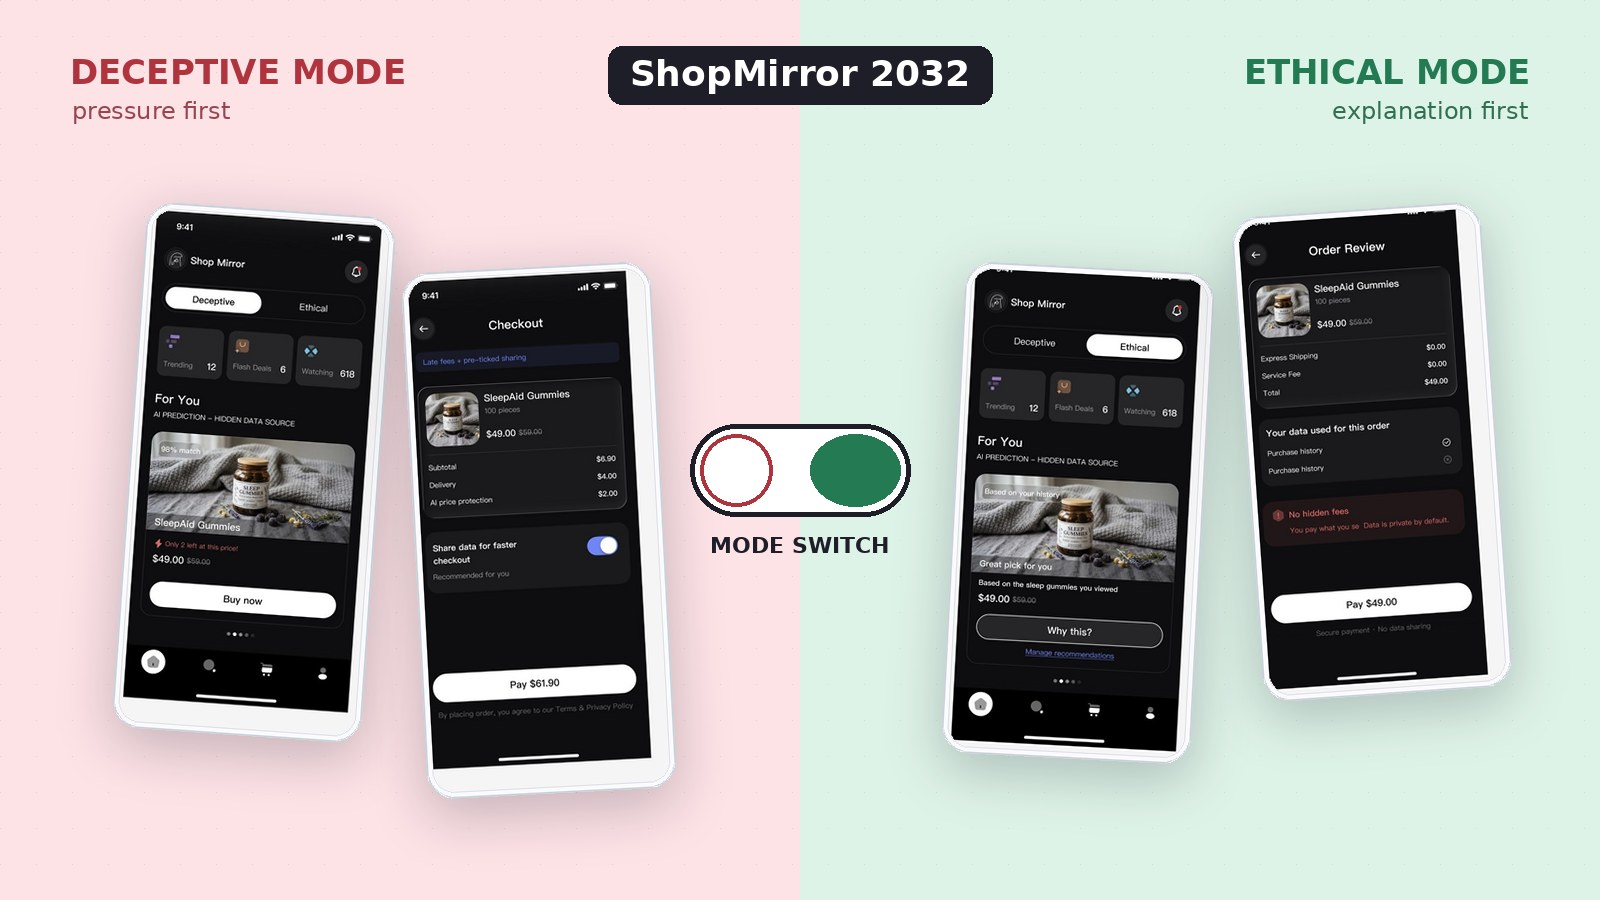
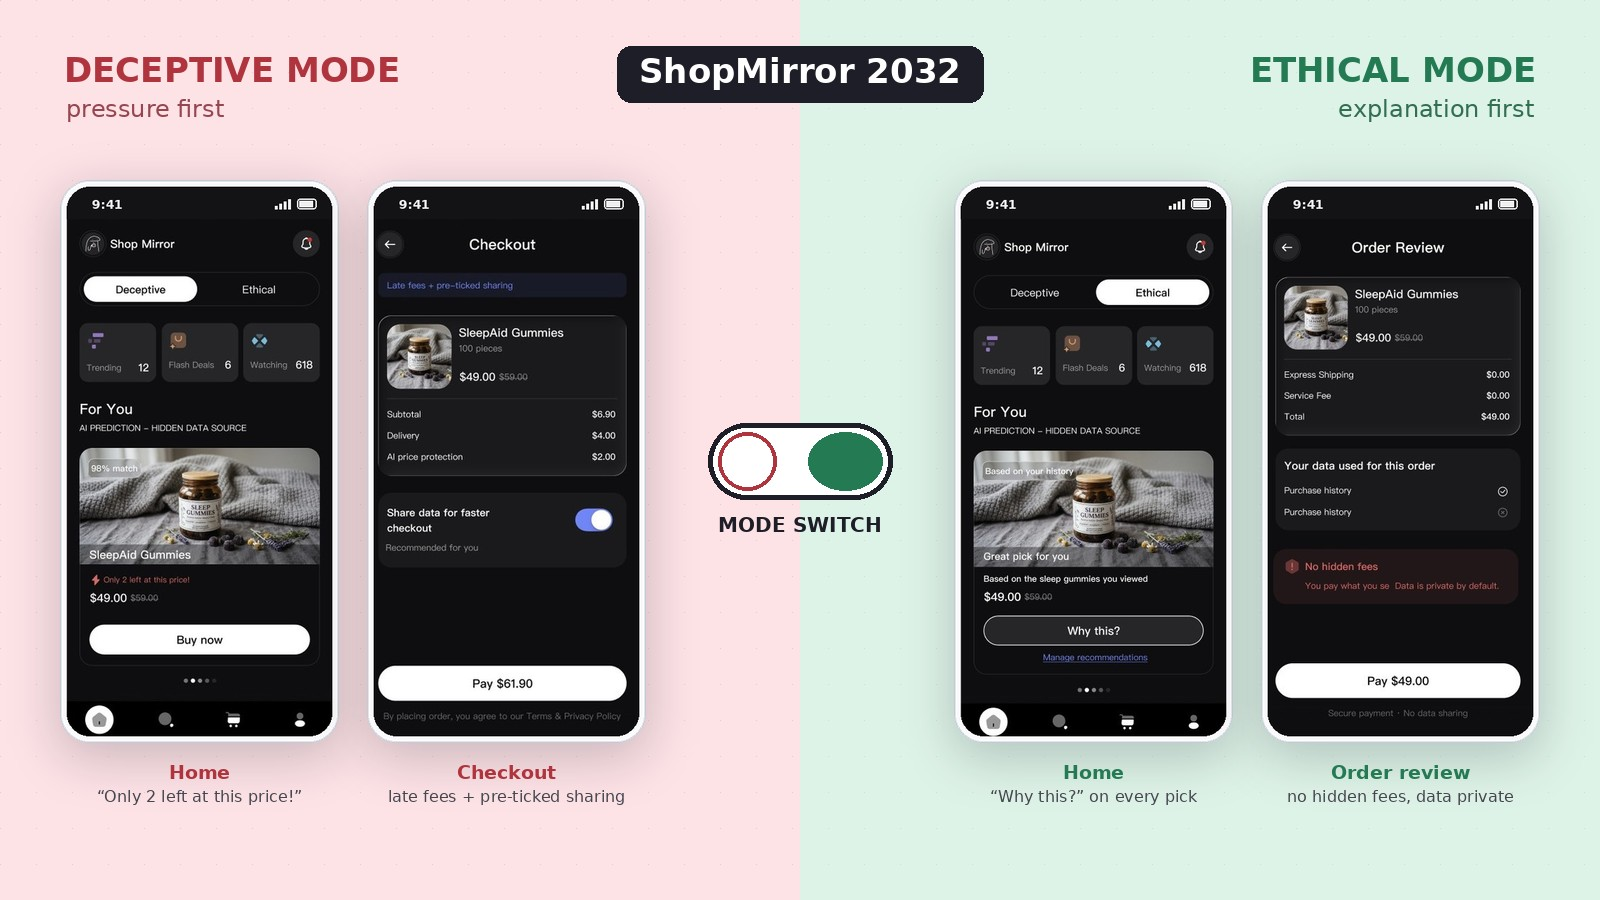
Aligned ShopMirror mockups, focused work thumbnails

diff --git a/js/content.js b/js/content.js
@@ -54,7 +54,7 @@ const WORKS = [
   {
     id: 'my-room', title: 'What We Carry', unit: 'KKB385 · Individual project', year: '2026',
     skills: ['Creative Coding & Interactive Prototyping', 'Three.js / Web 3D', 'Concept Development & Framing', 'Visual Storytelling'], accent: '#e9c46a',
-    role: 'Solo · my own new game', kind: 'Personal game · web & 3D', cover: 'myRoom', image: 'assets/work/my-room-cover.png', pixel: true,
+    role: 'Solo · my own new game', kind: 'Personal game · web & 3D', cover: 'myRoom', image: 'assets/work/my-room-cover.png', thumb: 'assets/work/thumbs/my-room.jpg', pixel: true,
     play: [{ label: 'My Room', href: 'room/', ratio: '16/9' }],
     summary: 'A new personal game I created, about my own room, connected to my A1 and A3 work.',
     body: [
@@ -68,7 +68,7 @@ const WORKS = [
   {
     id: 'echo-corridor', title: 'Echo Corridor', unit: 'DXB211 · Creative Coding', year: '2026',
     skills: ['p5.js / JavaScript', 'Game-state / Data Logic', 'Interaction Prototyping', 'User Research & Usability Testing'], accent: '#8cc3dd',
-    role: 'Solo', kind: 'Arcade game', cover: 'echoCorridor', image: 'assets/work/echo-corridor/p01.jpg',
+    role: 'Solo', kind: 'Arcade game', cover: 'echoCorridor', image: 'assets/work/echo-corridor/p01.jpg', thumb: 'assets/work/thumbs/echo-corridor.jpg',
     gallery: ['assets/work/echo-corridor/play.jpg', 'assets/work/echo-corridor/p02.jpg', 'assets/work/echo-corridor/p04.jpg', 'assets/work/echo-corridor/p05.jpg'],
     play: [{ label: 'Echo Corridor', href: 'play/echo-corridor/', ratio: '16/9', hint: 'Arrows or WASD to move. 1 pick up, 2 decoy, 3 mute.' }],
     summary: 'A sound stealth maze where the dark hunts your sound.',
@@ -82,7 +82,7 @@ const WORKS = [
   {
     id: 'next-chapter', title: 'The Next Chapter', unit: 'KKB385 · Creative Enterprise Studio 3', year: '2026',
     skills: ['Creative Coding & Interactive Prototyping', 'Team Collaboration', 'Game-state / Data Logic', 'Role Ownership'], accent: '#e39aac',
-    role: 'Main coder · team of four', kind: 'Exhibition game', cover: 'nextChapter', image: 'assets/work/next-chapter/title.png', pixel: true,
+    role: 'Main coder · team of four', kind: 'Exhibition game', cover: 'nextChapter', image: 'assets/work/next-chapter/title.png', thumb: 'assets/work/thumbs/next-chapter.jpg', pixel: true,
     gallery: ['assets/work/next-chapter/title.png', 'assets/work/next-chapter/teen-2014.png', 'assets/work/next-chapter/sprites.png', 'assets/work/next-chapter.jpg'],
     play: [
       { label: 'The Next Chapter (first pixel build)', href: 'play/the-next-chapter/', ratio: '16/9', hint: 'Drag things from the box into the room.' }
@@ -100,7 +100,7 @@ const WORKS = [
   {
     id: 'astrobius', title: 'Astrobius', unit: 'DVB201 · Experimental Type Design', year: '2026',
     skills: ['Type Design', 'Visual Storytelling', 'Concept Development & Framing', 'Presentation & Documentation'], accent: '#a99bd0',
-    role: 'Solo', kind: 'Typeface & zine', cover: 'astrobius', image: 'assets/work/astrobius/p01.jpg', tall: true,
+    role: 'Solo', kind: 'Typeface & zine', cover: 'astrobius', image: 'assets/work/astrobius/p01.jpg', thumb: 'assets/work/thumbs/astrobius.jpg', tall: true,
     gallery: ['poster', 'colour', 'thumbs', 'p01', 'p02', 'p03', 'p04', 'p05', 'p06', 'p07', 'p08', 'p09', 'p10', 'p11', 'p12', 'p13', 'p14', 'p15', 'p16'].map(p => 'assets/work/astrobius/' + p + '.jpg'),
     summary: 'Where the celestial meets the atomic. An experimental typeface for World Science Festival Brisbane.',
     body: [
@@ -113,7 +113,7 @@ const WORKS = [
   {
     id: 'hith-brick', title: 'HITH Brick', unit: 'DYB223 · Queensland Health', year: '2026',
     skills: ['Interaction & UI/UX Design', 'Figma Prototyping', 'Research Synthesis', 'Audience Empathy'], accent: '#9cc584',
-    role: 'Solo · interaction design', kind: 'Health UX', image: 'assets/work/hith-brick/cover.jpg',
+    role: 'Solo · interaction design', kind: 'Health UX', image: 'assets/work/hith-brick/cover.jpg', thumb: 'assets/work/thumbs/hith-brick.jpg',
     gallery: ['p01', 'p03', 'p04', 'p07', 'p09'].map(p => 'assets/work/hith-brick/' + p + '.jpg'),
     summary: 'Shared care handover for Hospital in the Home: prepare, practise together, then hand over.',
     body: [
@@ -126,7 +126,7 @@ const WORKS = [
   {
     id: 'shopmirror', title: 'ShopMirror 2032', unit: 'DXB210 · Interaction Design', year: '2026',
     skills: ['Interaction & UI/UX Design', 'Figma Prototyping', 'Storyboarding & Scenario Design', 'Critical Reflection'], accent: '#eeb17d',
-    role: 'Solo', kind: 'Speculative UX', cover: 'shopMirror', image: 'assets/work/shopmirror/cover.jpg',
+    role: 'Solo', kind: 'Speculative UX', cover: 'shopMirror', image: 'assets/work/shopmirror/cover.jpg', thumb: 'assets/work/thumbs/shopmirror.jpg',
     gallery: ['modes', 'personas', 'sketches', 'storyboard', 'lofi'].map(p => 'assets/work/shopmirror/' + p + '.jpg'),
     summary: 'The recommendation that reveals what it knows about you.',
     quote: 'Can personalisation still create revenue when explanation appears before persuasion, not after commitment?',

diff --git a/js/home.js b/js/home.js
@@ -190,7 +190,7 @@ function renderApp(id) {
     const g = body.firstChild;
     WORKS.forEach((w, i) => {
       const b = document.createElement('button'); b.type = 'button'; b.className = 'os-card';
-      b.append(coverEl(w)); b.insertAdjacentHTML('beforeend', `<b>${esc(w.title)}</b><span>${esc(w.kind)} · ${esc(w.year)}</span>`);
+      b.append(coverEl(thumbOf(w))); b.insertAdjacentHTML('beforeend', `<b>${esc(w.title)}</b><span>${esc(w.kind)} · ${esc(w.year)}</span>`);
       b.onclick = () => openCase(i); g.append(b);
     });
   } else if (id === 'about') {
@@ -206,6 +206,8 @@ function renderApp(id) {
 }
 
 /* ======================= work list + case studies ======================= */
+// the work list shows a tighter crop on the strongest image; the case page keeps the full cover
+const thumbOf = w => w.thumb ? Object.assign({}, w, { image: w.thumb }) : w;
 function coverEl(w) {
   if (w.image) { const i = new Image(); i.src = w.image; i.alt = ''; i.style.objectFit = 'cover'; i.style.imageRendering = 'auto'; return i; }
   const c = drawCover(w.cover); return c;
@@ -226,7 +228,7 @@ WORKS.forEach((w, i) => {
       <div class="t-face"><span class="n">${String(i + 1).padStart(2, '0')}</span><span class="t">${esc(w.title)}</span><span class="m"><b>${esc(w.unit.split(' · ')[0])}</b>${esc(w.kind)} · ${esc(w.year)}</span><span class="pull">peel ⟶</span></div>
     </div>
     <div class="curl" aria-hidden="true"></div>`;
-  const cv = coverEl(w); li.querySelector('.u-cv').append(cv);
+  const cv = coverEl(thumbOf(w)); li.querySelector('.u-cv').append(cv);
   li.querySelector('.u-open').onclick = () => openCase(i);
   li.querySelector('.under').addEventListener('click', e => { if (li.classList.contains('peeled') && !e.target.closest('button')) openCase(i); });
   peelable(li);
@@ -294,7 +296,7 @@ WORKS.forEach((w, i) => {
   const c = document.createElement('button'); c.type = 'button'; c.className = 'wcard'; c.dataset.id = w.id;
   c.style.setProperty('--ac', w.accent || 'var(--gold)'); c.style.setProperty('--i', i);
   const scr = document.createElement('div'); scr.className = 'wc-cv';
-  if (w.image) { const pc = FX.pixelImage(w.image, { start: 12 }); scr.append(pc); FX.hoverResolve(c, pc, 12); if (!canHover) sharpenOnView(c, pc); } else scr.append(drawCover(w.cover));
+  if (w.image) { const pc = FX.pixelImage(w.thumb || w.image, { start: 12 }); scr.append(pc); FX.hoverResolve(c, pc, 12); if (!canHover) sharpenOnView(c, pc); } else scr.append(drawCover(w.cover));
   c.append(scr);
   c.insertAdjacentHTML('beforeend', `<span class="wc-n">${String(i + 1).padStart(2, '0')}</span><b>${esc(w.title)}</b><span class="wc-k">${esc(w.kind)} · ${esc(w.year)}</span><span class="sk">${chips(w)}</span><span class="wc-go">open ▸</span>`);
   c.onclick = () => openCase(i);
@@ -320,7 +322,7 @@ const peekCache = {};
 function showPeek(w) {
   peek.innerHTML = '';
   peek.style.setProperty('--ac', w.accent || 'var(--gold)');
-  const src = w.image;
+  const src = w.thumb || w.image;
   if (src) { const c = peekCache[w.id] || (peekCache[w.id] = FX.pixelImage(src, { start: 18 })); c.to(18); peek.append(c); requestAnimationFrame(() => { c.repaint(); c.to(1); }); }
   else peek.append(coverEl(w));
   peek.insertAdjacentHTML('beforeend', '<span class="badge">open ▸</span>');

diff --git a/index.html b/index.html
@@ -12,7 +12,7 @@
 <link rel="preconnect" href="https://fonts.googleapis.com">
 <link rel="preconnect" href="https://fonts.gstatic.com" crossorigin>
 <link href="https://fonts.googleapis.com/css2?family=Pixelify+Sans:wght@400..700&family=VT323&family=DotGothic16&display=swap" rel="stylesheet">
-<link rel="stylesheet" href="css/site.css?v=20261016n">
+<link rel="stylesheet" href="css/site.css?v=20261016p">
 </head>
 <body>
 
@@ -178,16 +178,16 @@
   </div>
 </div>
 
-<script src="js/pixel-art.js?v=20261016n"></script>
-<script src="js/room-engine.js?v=20261016n" data-root="./"></script>
-<script src="js/content.js?v=20261016n"></script>
-<script src="js/story.js?v=20261016n"></script>
-<script src="js/covers.js?v=20261016n"></script>
-<script src="js/fx.js?v=20261016n"></script>
-<script src="js/music.js?v=20261016n"></script>
-<script src="js/home.js?v=20261016n"></script>
+<script src="js/pixel-art.js?v=20261016p"></script>
+<script src="js/room-engine.js?v=20261016p" data-root="./"></script>
+<script src="js/content.js?v=20261016p"></script>
+<script src="js/story.js?v=20261016p"></script>
+<script src="js/covers.js?v=20261016p"></script>
+<script src="js/fx.js?v=20261016p"></script>
+<script src="js/music.js?v=20261016p"></script>
+<script src="js/home.js?v=20261016p"></script>
 <script type="module">
-import { createIsland } from './js/island.js?v=20261016n';
+import { createIsland } from './js/island.js?v=20261016p';
 window.mountIsland && window.mountIsland(createIsland);
 </script>
 </body>

diff --git a/room/index.html b/room/index.html
@@ -10,8 +10,8 @@
 <link rel="preconnect" href="https://fonts.googleapis.com">
 <link rel="preconnect" href="https://fonts.gstatic.com" crossorigin>
 <link href="https://fonts.googleapis.com/css2?family=Pixelify+Sans:wght@400..700&family=VT323&family=DotGothic16&display=swap" rel="stylesheet">
-<link rel="stylesheet" href="../css/site.css?v=20261016n">
-<link rel="stylesheet" href="../css/game.css?v=20261016n">
+<link rel="stylesheet" href="../css/site.css?v=20261016p">
+<link rel="stylesheet" href="../css/game.css?v=20261016p">
 </head>
 <body class="game">
 <div id="stage" aria-label="Cecelia's room"></div>
@@ -76,11 +76,11 @@
   </div>
 </div>
 
-<script src="../js/pixel-art.js?v=20261016n"></script>
-<script src="../js/room-engine.js?v=20261016n" data-root="../"></script>
-<script src="../js/content.js?v=20261016n"></script>
-<script src="../js/story.js?v=20261016n"></script>
-<script src="../js/covers.js?v=20261016n"></script>
-<script src="../js/game.js?v=20261016n"></script>
+<script src="../js/pixel-art.js?v=20261016p"></script>
+<script src="../js/room-engine.js?v=20261016p" data-root="../"></script>
+<script src="../js/content.js?v=20261016p"></script>
+<script src="../js/story.js?v=20261016p"></script>
+<script src="../js/covers.js?v=20261016p"></script>
+<script src="../js/game.js?v=20261016p"></script>
 </body>
 </html>

diff --git a/css/site.css b/css/site.css
@@ -753,3 +753,5 @@ main{overflow-x:clip}
 #island{position:relative;inset:auto;width:100%;aspect-ratio:4/3}
 .island-panel{min-height:34px}
 @media (max-width:860px){#island{aspect-ratio:1/1}}
+/* round 13: the work thumbnails are cut to 16:9 around the key idea, so show them whole */
+.wc-cv{aspect-ratio:16/9}
